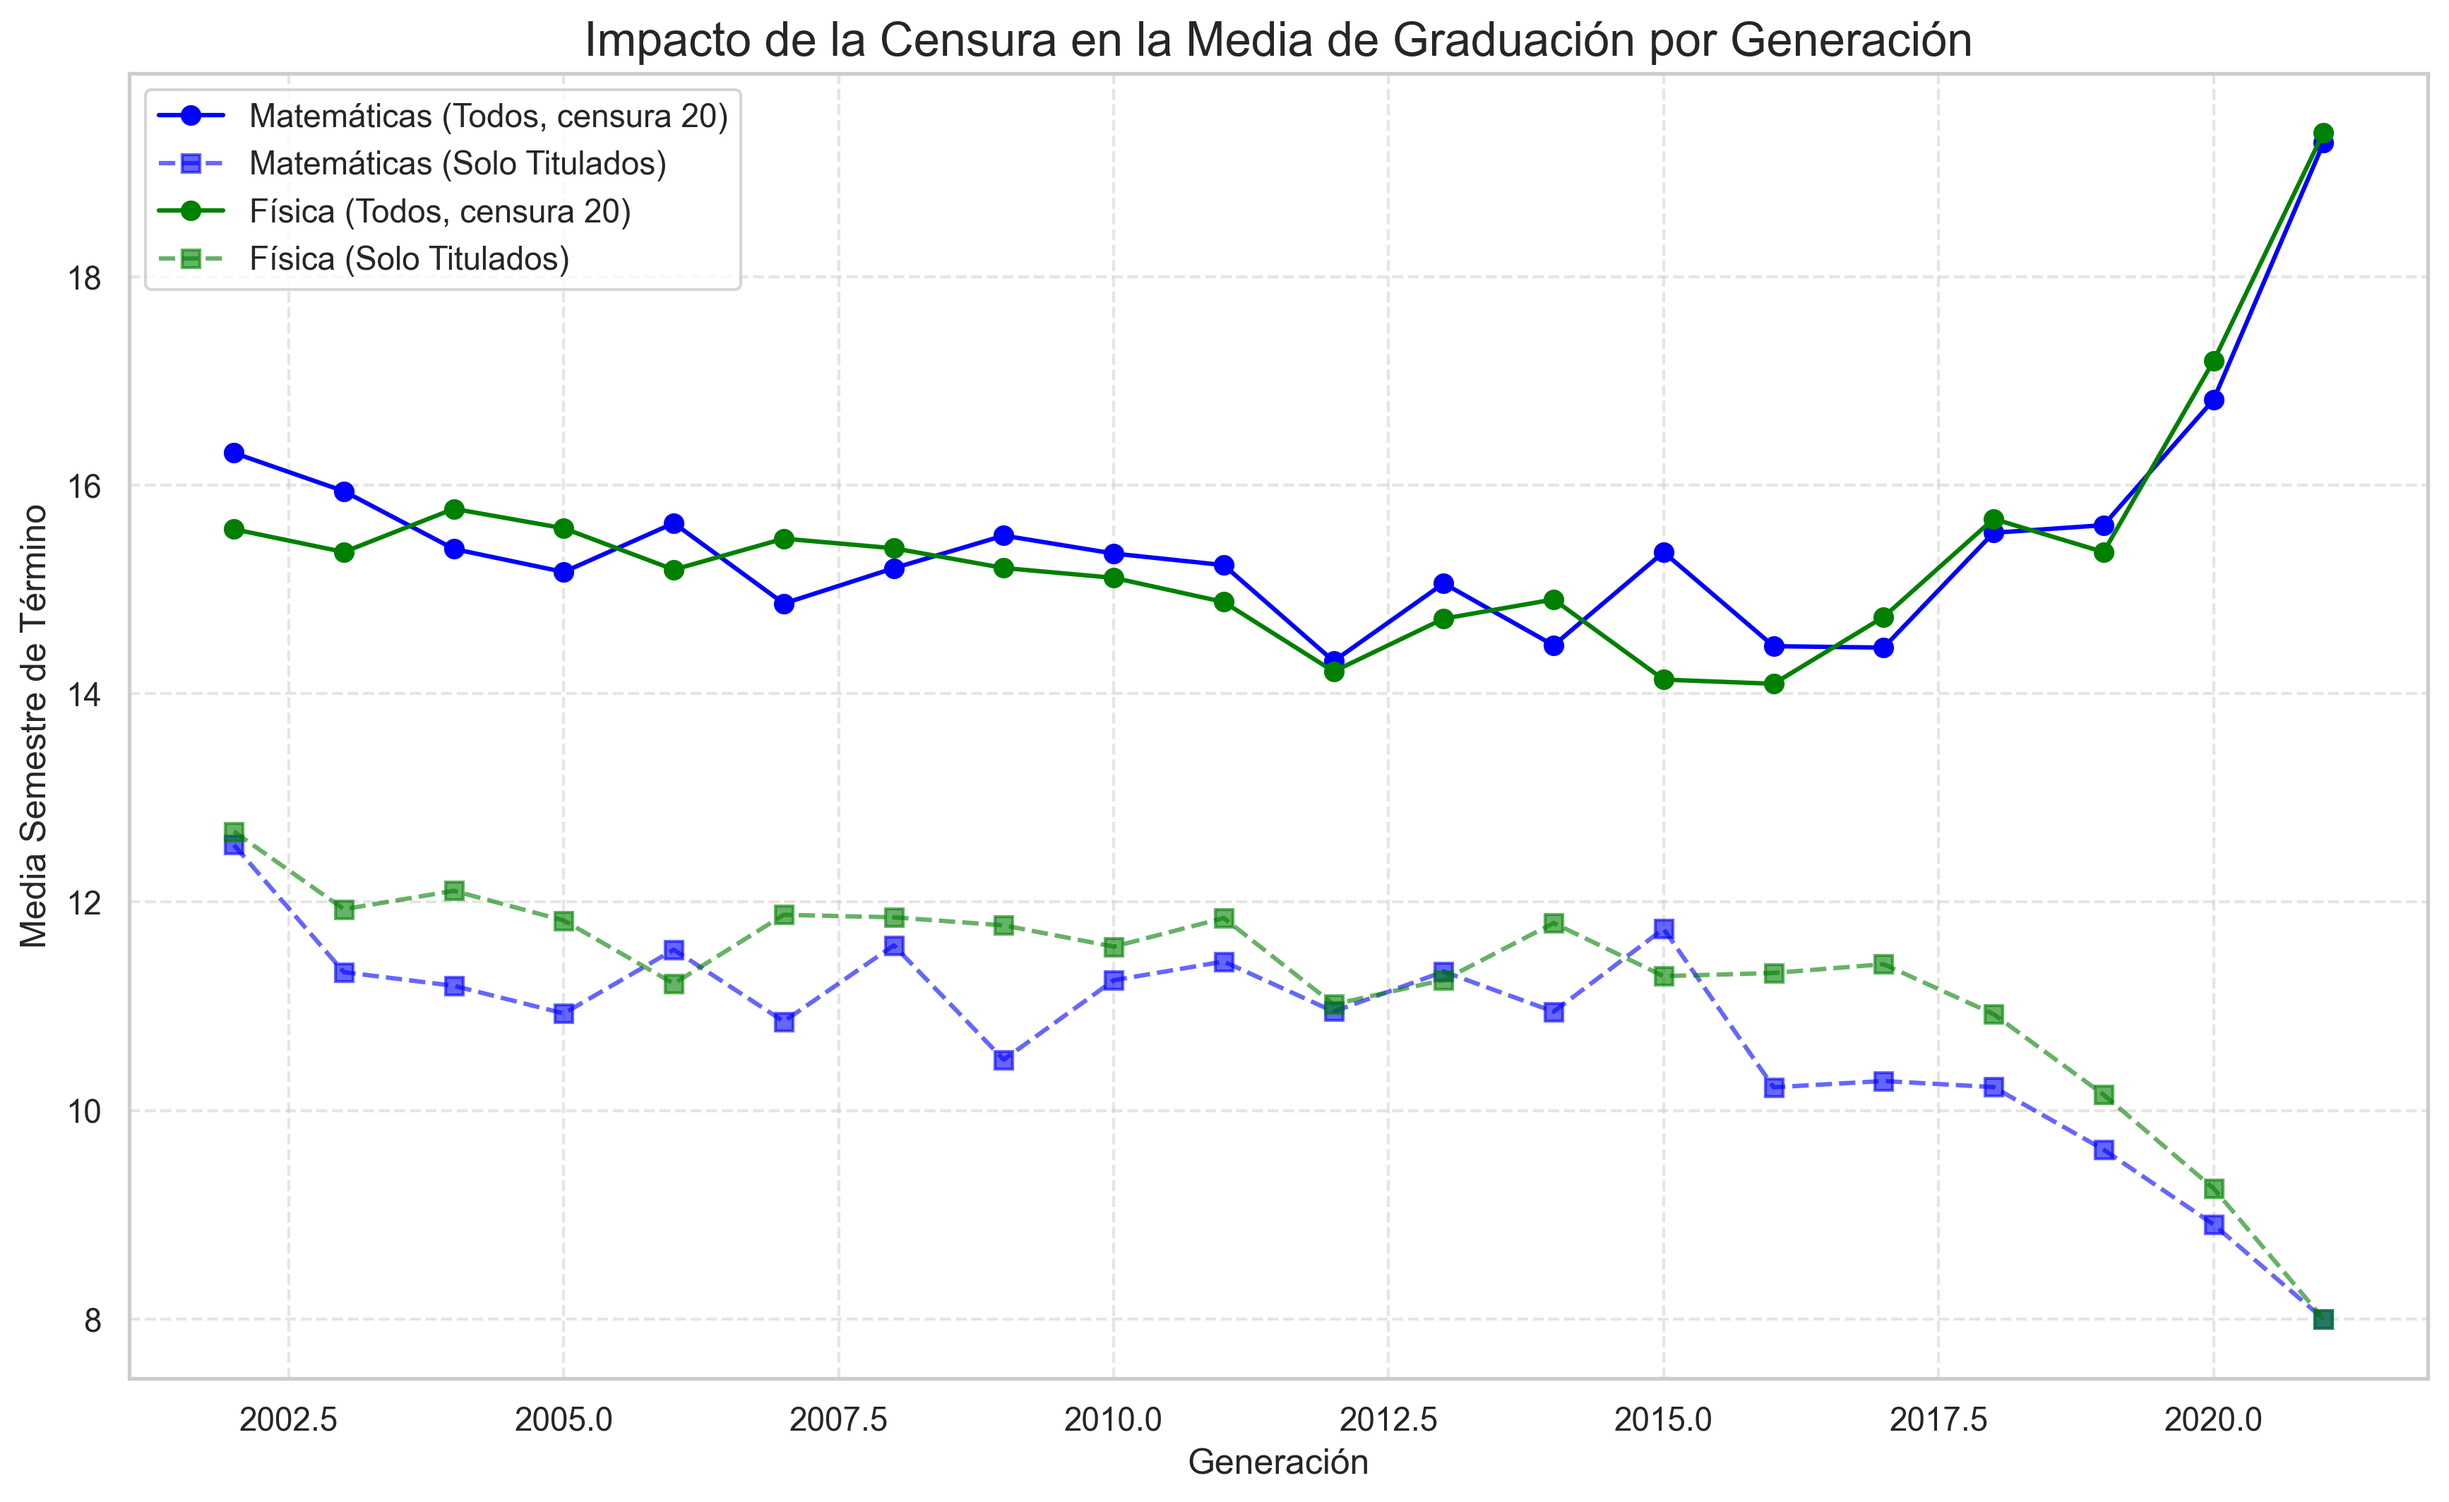
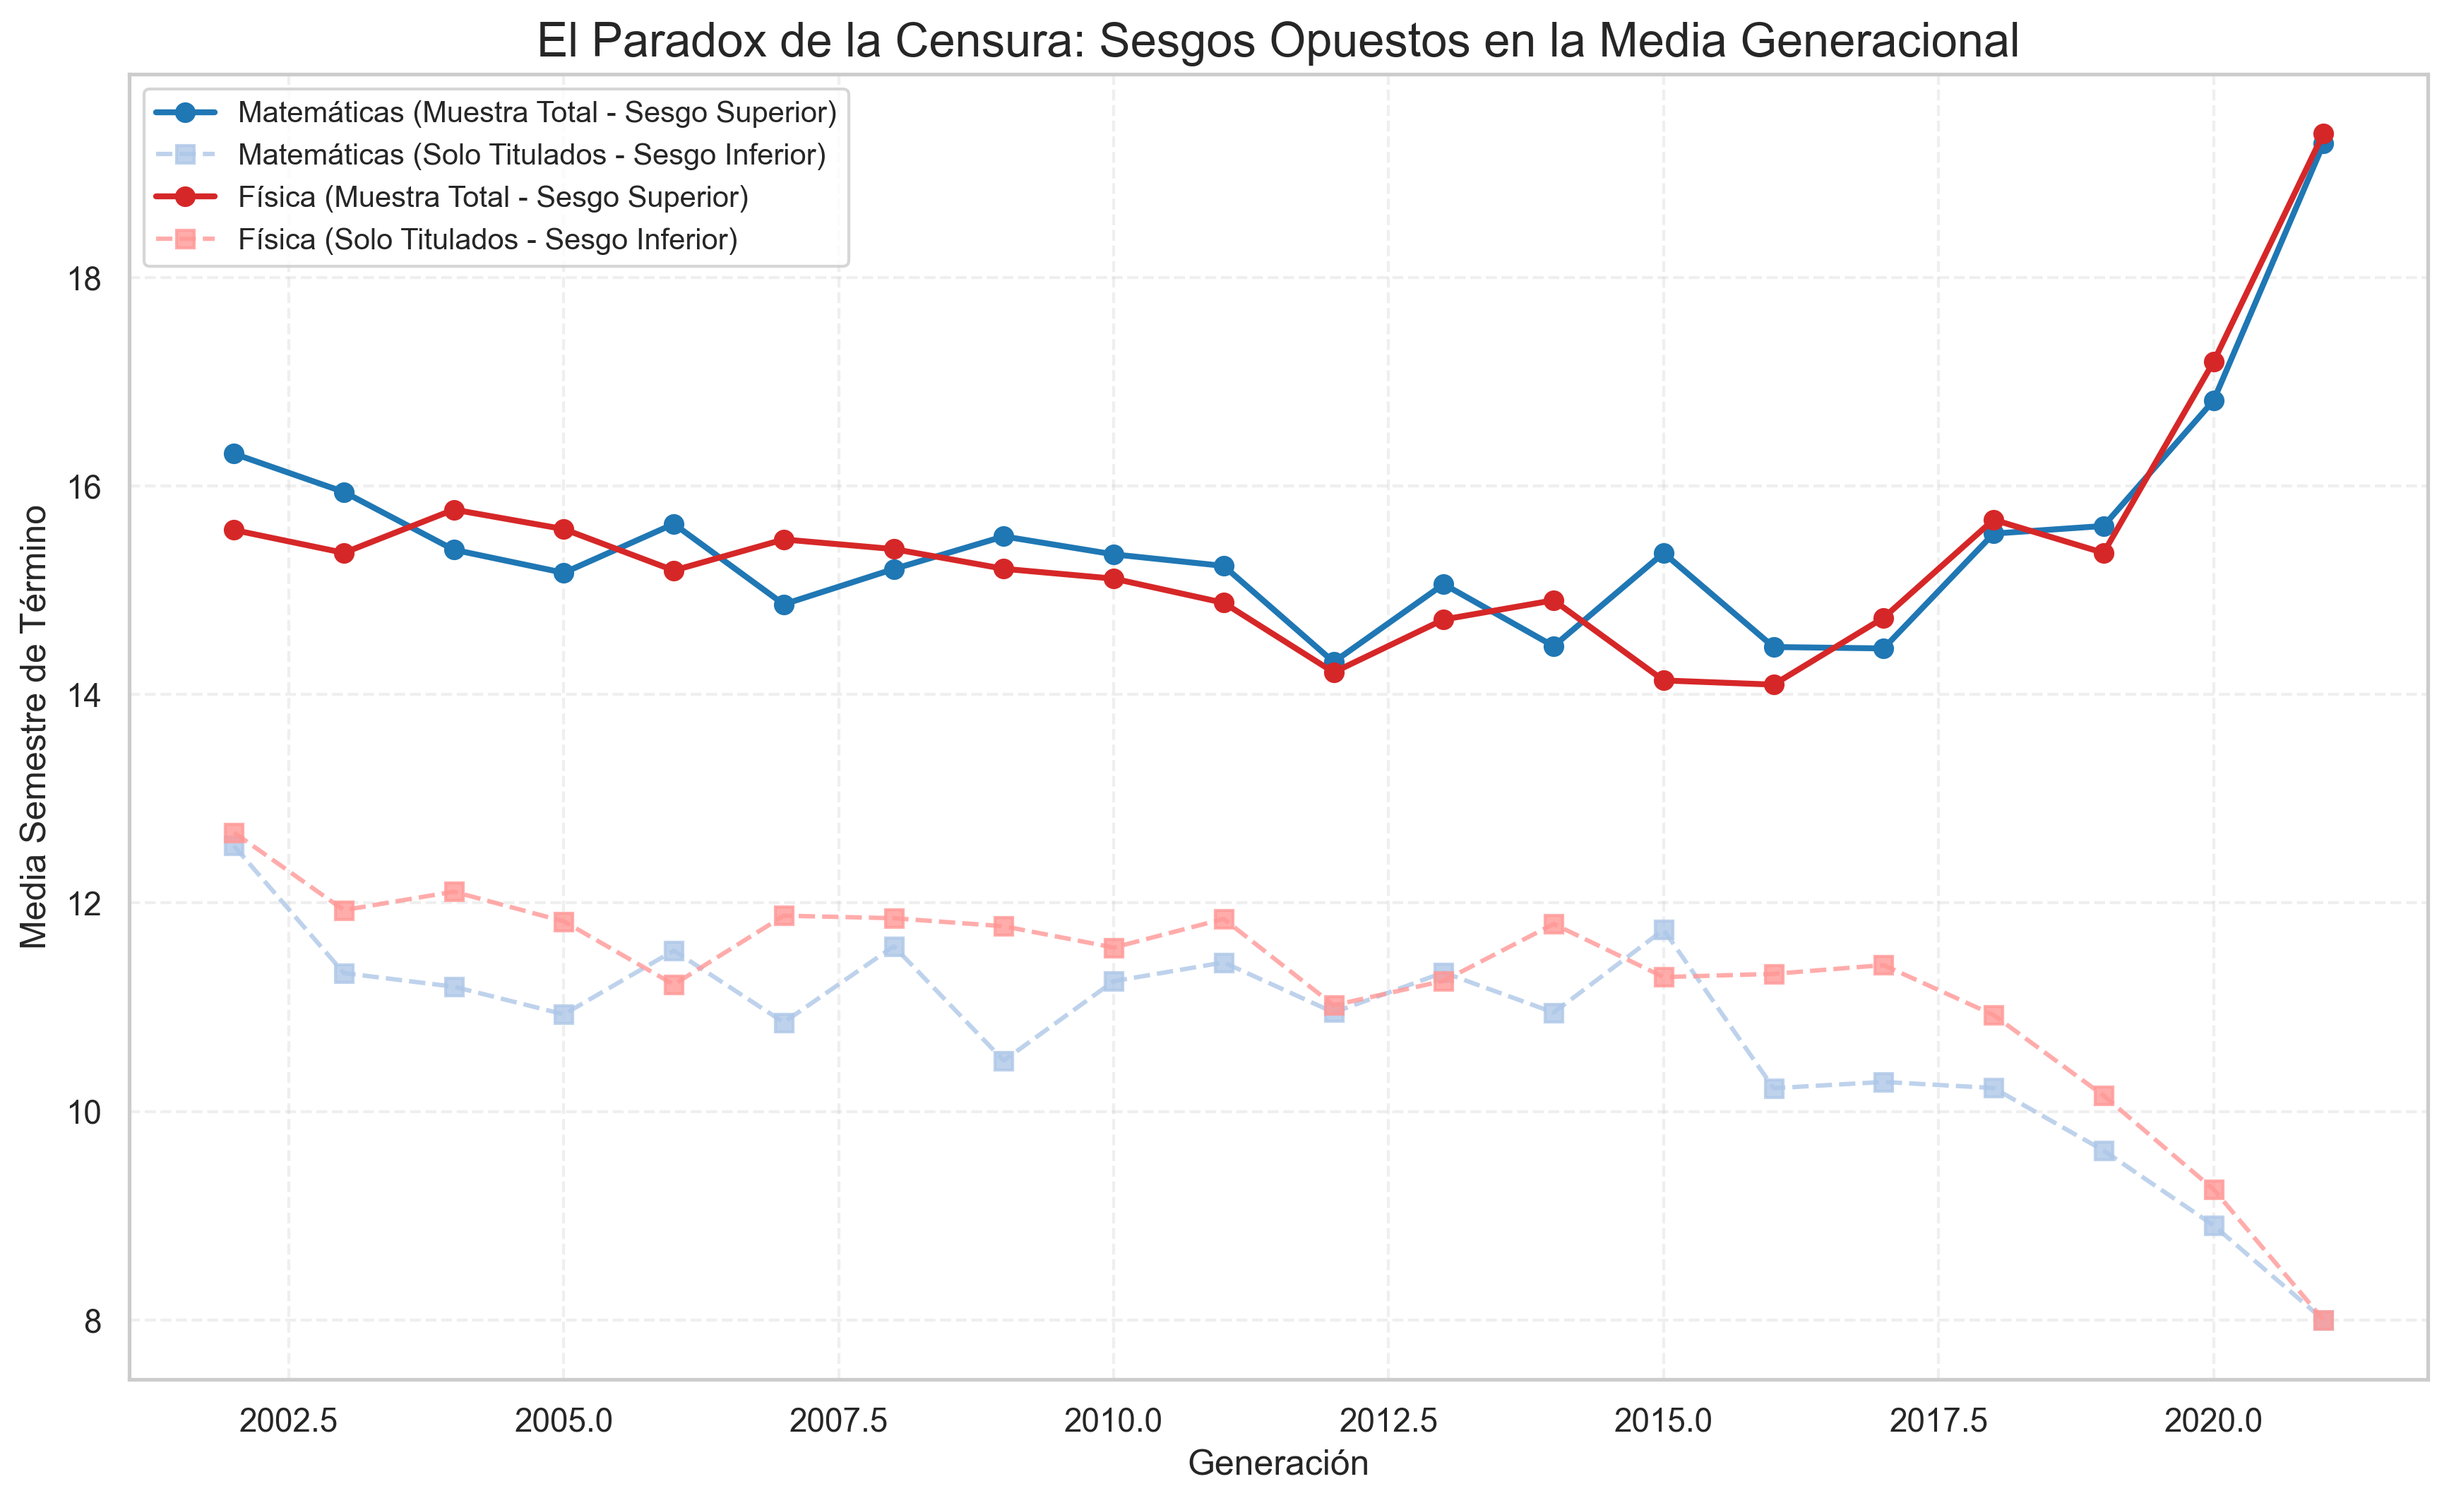
feat: refina analisis de censura con explicacion de doble sesgo y nuevos colores

diff --git a/escrito/capitulos/05_resultados_eda.tex b/escrito/capitulos/05_resultados_eda.tex
@@ -15,12 +15,14 @@ Al graficar la media del semestre de término corregido por generación, se obse
 
 Sin embargo, es fundamental notar que la crecida abrupta que se observa a partir de la generación 2017 no necesariamente implica un deterioro súbito en el rendimiento académico, sino que responde a un artefacto de la \textbf{censura informativa}. En las cohortes más recientes, los estudiantes que eventualmente tardarán 14, 16 o 18 semestres en titularse aún no han transcurrido ese tiempo en la facultad; por lo tanto, en la base de datos actual son contabilizados preventivamente con el valor máximo de 20 semestres.
 
-Para validar esta hipótesis, se generó una comparativa (Figura \ref{fig:comparativa_censura}) contrastando la media total contra la media calculada únicamente sobre los alumnos que ya han concluido sus créditos. Se observa que, al excluir los datos censurados, la tendencia se mantiene estable o incluso descendente en los años recientes, confirmando que el repunte es una distorsión temporal. Este fenómeno de subestimación del éxito y sobreestimación del rezago en cohortes jóvenes será abordado con mayor profundidad en las secciones dedicadas al análisis de supervivencia.
+Para validar esta hipótesis, se generó una comparativa (Figura \ref{fig:comparativa_censura}) que ilustra el "paradox de la censura". Por un lado, la media de la muestra total presenta un \textit{sesgo superior}, pues infla artificialmente el tiempo de egreso de los alumnos pendientes. Por otro lado, la media de "Solo Titulados" presenta un \textit{sesgo inferior} en las generaciones recientes, ya que en estas cohortes solo han tenido tiempo de concluir los estudiantes más eficientes (aquellos con trayectorias de 8 o 9 semestres), ocultando a quienes egresarán con rezago natural. 
+
+Se observa que la realidad académica se encuentra en el espacio no observado entre ambas líneas. Confirmar que el repunte es una distorsión temporal es vital, y justifica el uso posterior de técnicas de análisis de supervivencia para obtener estimaciones insesgadas.
 
 \begin{figure}[H]
     \centering
     \includegraphics[width=0.8\textwidth]{imagenes/comparativa_censura_media.png}
-    \caption{Impacto de la censura en la media generacional: Comparativa entre la muestra total (censurada en $k=20$) y la subpoblación de titulados.}
+    \caption{El Paradox de la Censura: Comparativa entre el sesgo superior (muestra total) y el sesgo inferior (subpoblación de titulados rápidos).}
     \label{fig:comparativa_censura}
 \end{figure}
 

diff --git a/src/notebooks/16_analisis_censura.py b/src/notebooks/16_analisis_censura.py
@@ -22,27 +22,30 @@ for i, carrera in enumerate(carreras):
         
     df = pd.read_excel(archivo)
     
-    # Caso 1: Todos (imputando 20)
+    # Caso 1: Todos (imputando 20) -> Sesgo hacia ARRIBA
     df_all = df.copy()
     df_all['semestre_termino'] = df_all['semestre_termino'].fillna(20)
     media_all = df_all.groupby('Generación')['semestre_termino'].mean()
     
-    # Caso 2: Solo Titulados (excluyendo los que no han terminado)
-    # Filtramos los que tienen NaN o 20 (si es que ya había 20s reales, aunque usualmente son censura)
+    # Caso 2: Solo Titulados -> Sesgo hacia ABAJO (solo vemos a los rápidos)
     df_tit = df.dropna(subset=['semestre_termino'])
     df_tit = df_tit[df_tit['semestre_termino'] < 20]
     media_tit = df_tit.groupby('Generación')['semestre_termino'].mean()
     
     # Plotting
-    color = 'blue' if i == 0 else 'green'
-    plt.plot(media_all.index, media_all.values, marker='o', label=f"{carrera} (Todos, censura 20)", color=color, linestyle='-')
-    plt.plot(media_tit.index, media_tit.values, marker='s', label=f"{carrera} (Solo Titulados)", color=color, linestyle='--', alpha=0.6)
+    if i == 0: # Matemáticas
+        col_main, col_sub = '#1f77b4', '#aec7e8' # Azul fuerte y claro
+    else: # Física
+        col_main, col_sub = '#d62728', '#ff9896' # Rojo fuerte y claro
+        
+    plt.plot(media_all.index, media_all.values, marker='o', label=f"{carrera} (Muestra Total - Sesgo Superior)", color=col_main, linewidth=2)
+    plt.plot(media_tit.index, media_tit.values, marker='s', label=f"{carrera} (Solo Titulados - Sesgo Inferior)", color=col_sub, linestyle='--', alpha=0.8)
 
-plt.title("Impacto de la Censura en la Media de Graduación por Generación", fontsize=16)
+plt.title("El Paradox de la Censura: Sesgos Opuestos en la Media Generacional", fontsize=16)
 plt.xlabel("Generación", fontsize=12)
 plt.ylabel("Media Semestre de Término", fontsize=12)
-plt.legend()
-plt.grid(True, which='both', linestyle='--', alpha=0.5)
+plt.legend(fontsize='small', frameon=True)
+plt.grid(True, which='both', linestyle='--', alpha=0.3)
 
 # Guardar
 plt.savefig(IMAGENES / "comparativa_censura_media.png", dpi=300, bbox_inches='tight')
